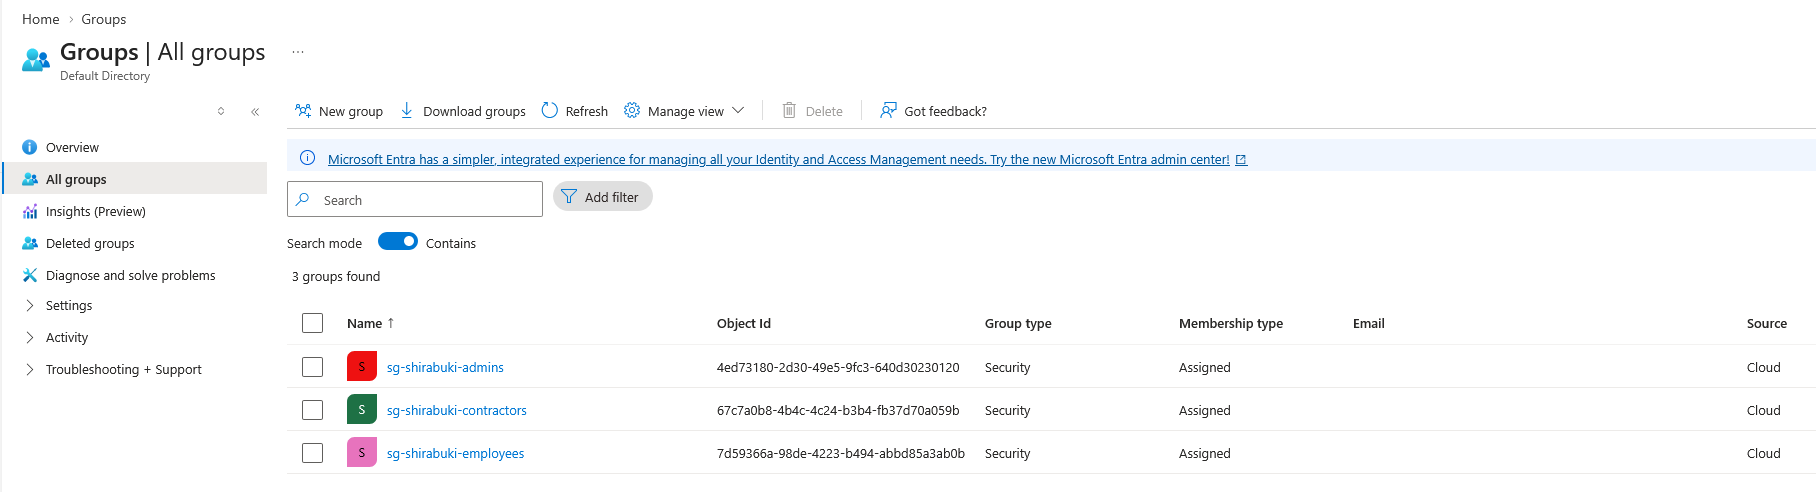
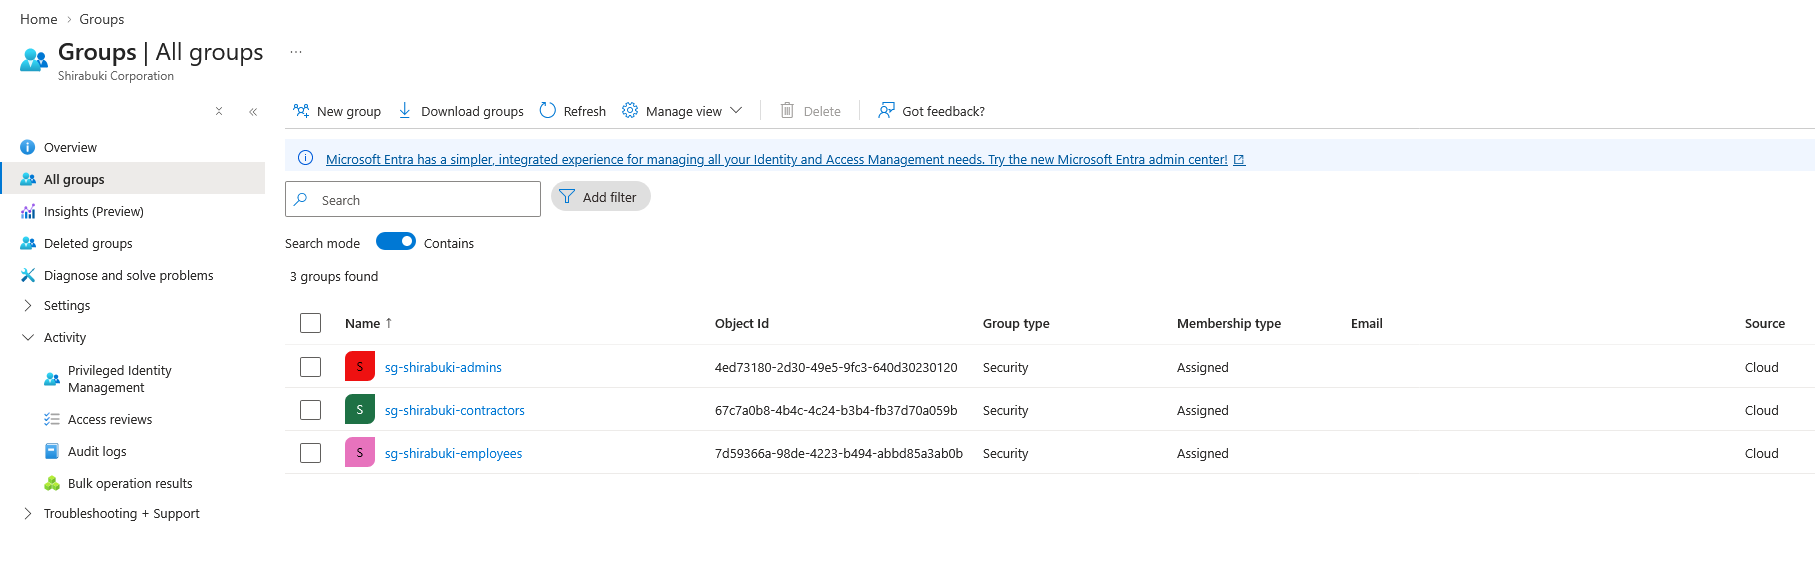
Document password governance standards and mark RBAC complete
Add documentation and screenshots for initial password reset requirements, explaining the decision to force password changes on first login to ensure only account holders know their credentials. Update project status to mark 02.RBAC_Roles as complete and start 03.Access_Verification phase. Fixed consistency issue changing 'Shirabuki Corp' to 'Shirabuki Corporation'.

diff --git a/01.Users_And_Groups/README.md b/01.Users_And_Groups/README.md
@@ -3,7 +3,7 @@ For the fictionalized Shirabuki Corporation, I decided to create distinct users,
 This was an important distinction as I wanted to closely emulate real-world enterprise environments without overcomplicating my understanding of the concepts at play.
 
 ## The Problem
-Shirabuki Corporation currently has two administrators, three employees, and one contractor from a third party company. Shirabuki Corporation wants each user to be grouped by their role, and have access controls to the resource group per their role assignment.
+Shirabuki Corporation currently has two administrators, three employees, and one contractor from a third party company. Shirabuki Corporation wants each user to be grouped by their role, and have access controls to the resource group per their role assignment. Regarding password management, every user, no matter if they are an administrator, employee, or contractor, will need to do a password reset upon the first login attempt.
 
 ## What Was Built
 - Resource Group
@@ -26,6 +26,11 @@ Shirabuki Corporation currently has two administrators, three employees, and one
    - External Contractor Decisions
 
       To tie the contractor role closer to production level environments, I used a spare email account to act as the third party contractor to be invited. I noted that guest users can belong to groups in the same way member accounts can, and specifically bringing an external user as a contractor/vendor can reflect how enterprise organizations distinguish the access of employees versus third parties. This includes separate governance measures, and in a production environment with P2 licensing, automatic access expiration tied to contract duration.
+   - Password Governance Standards
+
+       Upon review of each user created, I noted that each user had "Force change password next sign-in" enabled. To see if this functionality was enabled by default, I went through the "Create New User" flow and found that "Auto-generate password" was checked automatically.
+       The idea behind this was to ensure that owners and administrators should not continue to have access to employee or contractor passwords. By enabling a forced reset when first signing into their accounts, this ensures that only the account holder knows their working credentials, rather than an administrator still having access via the initial password.
+       Shirabuki Employee 1 was used for demonstration purposes.
 
 ## Screenshots
 - Users List
@@ -49,3 +54,11 @@ Shirabuki Corporation currently has two administrators, three employees, and one
    ![Microsoft Azure screenshot of employee members list](Screenshots/Security_Group_Employee_Members-Microsoft_Azure.png)
    - Contractor Members
    ![Microsoft Azure screenshot of contractor members list](Screenshots/Security_Group_Contractor_Members-Microsoft_Azure.png)
+
+- Inital Password Reset Requirement (Shirabuki Employee 1)
+   - Going through flow to see if "Auto-generate password" was enabled by default
+   ![Microsoft Azure screenshot of Auto-generate password checkbox](Screenshots/Auto-Generate_Password_Checkbox-Microsoft_Azure.png)
+   - Password Reset Requirement in Azure Portal
+   ![Microsoft Azure screenshot of password reset requirement after intial login](Screenshots/Shirabuki_Employee_1_Password_Profile-Microsoft_Azure.png)
+   - Password Reset Requirement during sign in
+   ![Microsoft Azure screenshot of password reset requirement after intial login](Screenshots/Shirabuki_Employee_1_Password_Reset-Microsoft_Azure.png)

diff --git a/02.RBAC_Roles/README.md b/02.RBAC_Roles/README.md
@@ -2,7 +2,7 @@
 After building out the users and groups, I designed a tiered role structure. Administrators in this resource group had a broad, but access-limited role, employees were given a custom read/write role, and contractors were given a read-only access role. With this portion of the project, I wanted to create roles that would mimic production environments that I had seen in enterprise environments.
 
 ## The Problem
-Shirabuki Corp needs a form of access-control for their users and groups. Groups and users exist, but have no permissions assigned or granted yet. Broadly speaking, the administrators should be able to manage most of the resource group, the employees should be able to work without being able to delete items in the RG, and contractors should only have visibility privileges.
+Shirabuki Corporation needs a form of access-control for their users and groups. Groups and users exist, but have no permissions assigned or granted yet. Broadly speaking, the administrators should be able to manage most of the resource group, the employees should be able to work without being able to delete items in the RG, and contractors should only have visibility privileges.
 
 ## What Was Built
 - Roles for each group of users

diff --git a/README.md b/README.md
@@ -31,7 +31,11 @@ Azure_IAM_Least_Privilege_Lab/
 ├── 01.Users_And_Groups/
 │   ├── README.md
 │   └── Screenshots/
-├── 02.RBAC_Roles/          (in progress)
+├── 02.RBAC_Roles/
+│   ├── README.md
+│   ├── EmployeeCustomRoleDefinition.json
+│   └── Screenshots/
+├── 03.RBAC_Roles/          (in progress)
 │   ├── README.md
 │   ├── EmployeeCustomRoleDefinition.json
 │   └── Screenshots/
@@ -41,7 +45,8 @@ Azure_IAM_Least_Privilege_Lab/
 | Scenario | Description | Status |
 |---|---|---|
 | [01 - Users and Groups](./01_Users_and_Groups/README.md) | Personas, security groups, and ownership/governance decisions for Shirabuki Corp | ✅ Complete |
-| [02 - RBAC Roles](./02_RBAC_Roles/README.md) | Custom least-privilege roles assigned to groups | 🔧 In Progress |
+| [02 - RBAC Roles](./02_RBAC_Roles/README.md) | Custom least-privilege roles assigned to groups | ✅ Complete |
+| [03 - ](./03_Access_Verification/README.md) | Requirement to set up new password after initial login | 🔧 In Progress |
 
 ## Architecture Overview
 TBD
